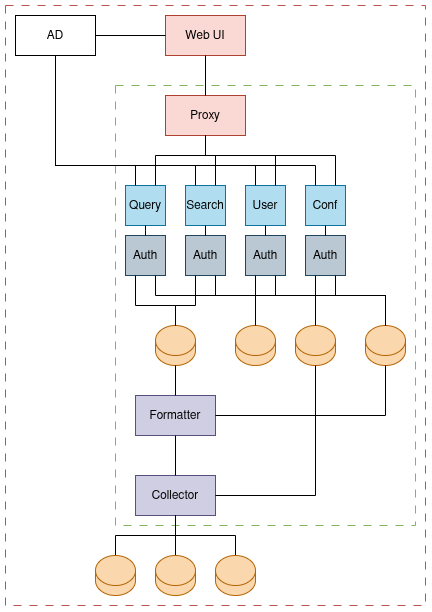
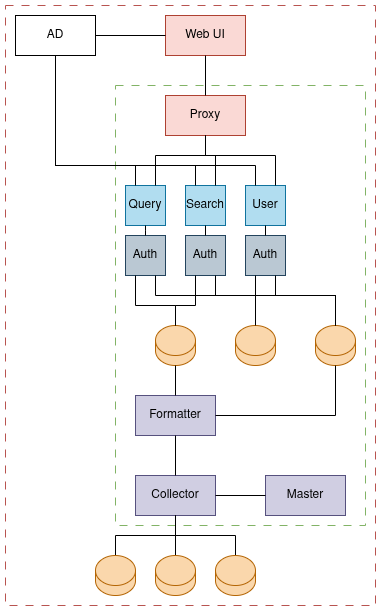
updated and added ref

diff --git a/documentation/high_level_architecture.md b/documentation/high_level_architecture.md
@@ -4,10 +4,15 @@
 > Critical content demanding immediate user attention due to potential risks.
 
 # High level architecture
-![Query service](images/overview.png)
+
+![Structure](images/overview.png)
 
 ## Query
 ![Query service](images/query.png)
 
 ## Search
 Simple search engine on indexing formatted data in the internal cache.
+
+# Refrence
+
+![Refrence](images/ref.png)
